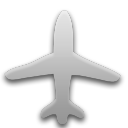
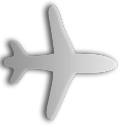
add rotate test

Changed region(s): [[0.0, 0.0, 0.9688, 1.0]]

diff --git a/client/js/view.js b/client/js/view.js
@@ -7,6 +7,7 @@ FF.View = function(data) {
     this.xOffset = 10;
     this.yOffset = 10;
     this.allFlyObjs = [];
+	this.id = '';
     createjs.Touch.enable(this.stage);
 };
 
@@ -27,6 +28,7 @@ FF.View.prototype.updateFlyObj = function(resObj) {
         if (flyObj.name === resObj.name && flyObj.type === resObj.type) {
             flyObj.x = resObj.x;
             flyObj.y = resObj.y;
+			flyObj.rotation = resObj.angle * 180 / Math.PI;
             return flyObj;
         }
     }
@@ -37,11 +39,17 @@ FF.View.prototype.createFlyObj = function(resObj) {
     var self = this;
     if(resObj.type === 'f') {
         var img = new Image();
-        img.src = '../img/flight.png';
+		if (resObj.name === self.id) {
+			img.src = '../img/my-flight.png';
+		}
+		else {
+			img.src = '../img/flight.png';
+		}
         img.onload = function() {
             var f = new createjs.Bitmap(img);
             f.x = resObj.x;
             f.y = resObj.y;
+			f.rotation = resObj.angle * 180 / Math.PI;
             f.scaleX = 0.25;
             f.scaleY = 0.25;
             f.alpha = 0.8;
@@ -71,17 +79,35 @@ $(document).ready(function() {
         height: canvas.height,
         stage: new createjs.Stage('game-canvas')
     });
+	
+	circle = new createjs.Shape();
+    circle.graphics.beginFill("red").drawCircle(0, 0, 20);
+    //Set position of Shape instance.
+    circle.x = circle.y = 40;
+    //Add Shape instance to stage display list.
+    view.stage.addChild(circle);
+    //Update stage will render next frame
+    view.stage.update();
+	circle.x = circle.y = 80;
+	view.stage.update();
 
     var socket = io();
     console.log('Get connected!');
+	
+	circle.addEventListener("click", handleClick);
+	function handleClick(event){
+     // Click happenened
+	 console.log("click");
+	 socket.emit('rotate-left', 'rotate-left');
+	}
 
     socket.on('send-id', function(res) {
-        FF.playerId = res;
-        console.debug(FF.playerId);
+        view.playerId = res;
+        //console.debug(FF.playerId);
     });
 
     socket.on('send-pos', function(res) {
-        console.debug(res);
+        //console.debug(res);
         view.paint(res);
     });
 

diff --git a/server/event-handler.js b/server/event-handler.js
@@ -27,10 +27,10 @@ var async = require('async');
      * class Player
      */
     function Player(id, socket) {
-        this.id = id;
+        this.id = socket.id;
         this.name = id.toString();
         this.socket = socket;
-        this.flight = flyObj.createFlight(id.toString());
+        this.flight = flyObj.createFlight(socket.id);
         this.score = 0;
     }
 
@@ -61,6 +61,15 @@ var async = require('async');
                 }
             }
         },
+		
+		playerRotateLeft: function(socket) {
+			for (var key in this.players) {
+                if (this.players[key] !== null && this.players[key].socket == socket) {
+					this.players[key].flight.rotateLeft();
+                    break;
+                }
+            }
+		},
 
         queryPlayer: function(id) {
             return this.players[id.toString()];
@@ -114,6 +123,11 @@ var async = require('async');
             console.log('[' + (new Date()).toString() + '] a user connected. ');
             var newPlayer = AllPlayers.playerJoin(socket);
             newPlayer.sendId();
+			
+			socket.on('rotate-left', function() {
+				console.log('[' + (new Date()).toString() + '] a user rotate left. ');
+				AllPlayers.playerRotateLeft(socket);
+			});
 
             socket.on('disconnect', function() {
                 console.log('[' + (new Date()).toString() + '] a user left. ');

diff --git a/server/fly-obj.js b/server/fly-obj.js
@@ -36,7 +36,7 @@ var util = require('util');
     Point.prototype.move = function(velocity) {
         //caution: y的方向与笛卡尔坐标系是相反的
         this.x += velocity.speed * Math.cos(velocity.angle);
-        this.y += velocity.speed * Math.cos(velocity.angle);
+        this.y += velocity.speed * Math.sin(velocity.angle);
     };
 
     function getDistanceSquar(p1, p2) {
@@ -118,6 +118,12 @@ var util = require('util');
         this.owner = owner;
         this.img = CONST.flightImg;
         this.crashCheckRange = CONST.flightCrashRange;
+		
+		Flight.prototype.rotateLeft = function() {
+			this.v.angle += Math.PI / 30;
+			if (this.v.angle > 2 * Math.PI) this.v.angle -= (2 * Math.PI);
+			console.log(this.v.angle + ', ' + this.v.speed);
+		}
     }
         //Flight.prototype.speedUp() {};
 
